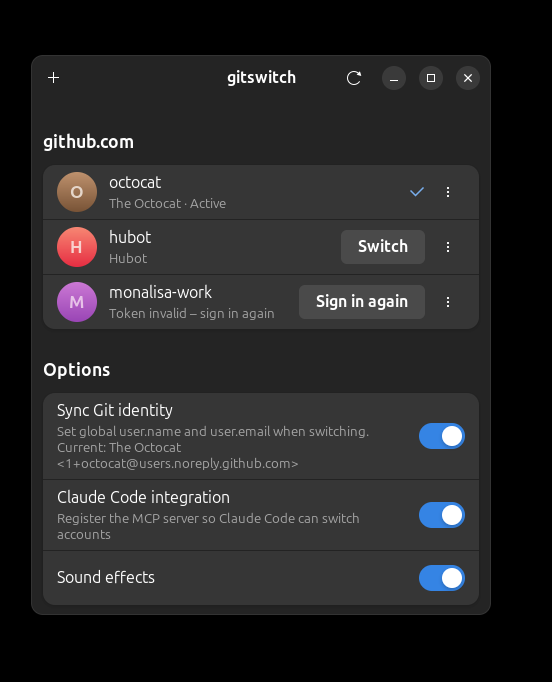
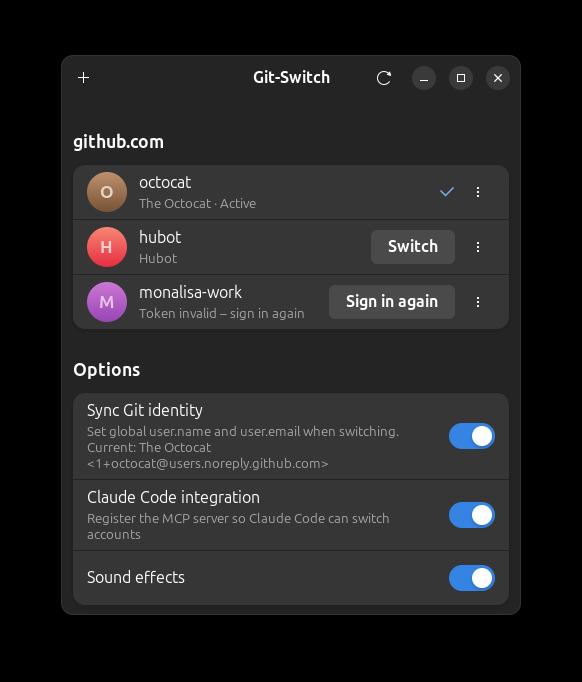
Show the app as Git-Switch in window title and app menu

diff --git a/gitswitch/gui.py b/gitswitch/gui.py
@@ -34,7 +34,7 @@ def run_async(func, callback) -> None:
 
 class Window(Adw.ApplicationWindow):
     def __init__(self, app: Adw.Application):
-        super().__init__(application=app, title="gitswitch", default_width=460, default_height=560)
+        super().__init__(application=app, title="Git-Switch", default_width=460, default_height=560)
         self.settings = core.load_settings()
         self.profiles: dict[core.Account, core.Profile] = {}
         self.avatars: dict[str, Gdk.Texture] = {}
@@ -116,7 +116,7 @@ class Window(Adw.ApplicationWindow):
 
         if not core.gh_available():
             self.status.set_title(_("GitHub CLI not found"))
-            self.status.set_description(_("Install gh from cli.github.com and start gitswitch again."))
+            self.status.set_description(_("Install gh from cli.github.com and start Git-Switch again."))
             self.stack.set_visible_child_name("status")
             return
         accounts = core.list_accounts()

diff --git a/gitswitch/i18n.py b/gitswitch/i18n.py
@@ -43,8 +43,8 @@ _DE = {
     "No accounts yet": "Noch keine Konten",
     "Sign in to GitHub to get started.": "Melde dich bei GitHub an, um loszulegen.",
     "GitHub CLI not found": "GitHub CLI nicht gefunden",
-    "Install gh from cli.github.com and start gitswitch again.": (
-        "Installiere gh von cli.github.com und starte gitswitch erneut."
+    "Install gh from cli.github.com and start Git-Switch again.": (
+        "Installiere gh von cli.github.com und starte Git-Switch erneut."
     ),
     "Host": "Host",
     "Sign in": "Anmelden",

diff --git a/gitswitch/mcp.py b/gitswitch/mcp.py
@@ -28,7 +28,7 @@ TOOLS = [
         "description": (
             "Switch the active GitHub CLI account (gh auth switch). This changes the account "
             "used by gh and by git over HTTPS for the whole machine, not just this session. "
-            "If the user enabled it in gitswitch, the global git user.name/user.email follow."
+            "If the user enabled it in Git-Switch, the global git user.name/user.email follow."
         ),
         "inputSchema": {
             "type": "object",

diff --git a/gitswitch/__init__.py b/gitswitch/__init__.py
@@ -1,3 +1,3 @@
 """gitswitch – a small GUI and MCP server around ``gh auth switch``."""
 
-__version__ = "0.1.0"
+__version__ = "0.1.1"

diff --git a/README.md b/README.md
@@ -1,13 +1,13 @@
-<img src="data/dev.gitswitch.GitSwitch.svg" width="96" align="right" alt="gitswitch logo">
+<img src="data/dev.gitswitch.GitSwitch.svg" width="96" align="right" alt="Git-Switch logo">
 
-# gitswitch
+# Git-Switch
 
 A small GTK app around `gh auth switch`: see every account the
 [GitHub CLI](https://cli.github.com) is logged in to and switch between them
 with one click – from the window, from the command line, or from Claude Code
 through the bundled MCP server.
 
-![gitswitch window](docs/screenshot.png)
+![Git-Switch window](docs/screenshot.png)
 
 ## Features
 
@@ -32,14 +32,14 @@ Requires `gh` ≥ 2.40, `git`, Python ≥ 3.10, GTK 4 and libadwaita ≥ 1.4.
 [releases page](../../releases) and install it:
 
 ```bash
-sudo apt install ./gitswitch_0.1.0_all.deb
+sudo apt install ./gitswitch_0.1.1_all.deb
 ```
 
 **Other distributions** – install PyGObject, GTK 4 and libadwaita from your
 package manager, then:
 
 ```bash
-pipx install --system-site-packages gitswitch-0.1.0-py3-none-any.whl
+pipx install --system-site-packages gitswitch-0.1.1-py3-none-any.whl
 ```
 
 **From source** – `python3 -m gitswitch` inside a checkout.
